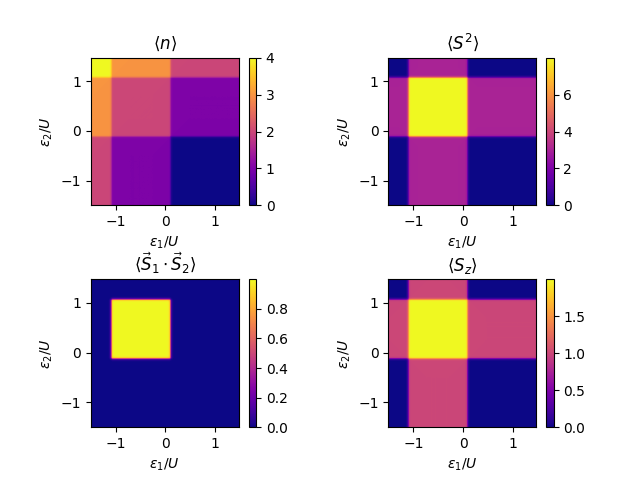
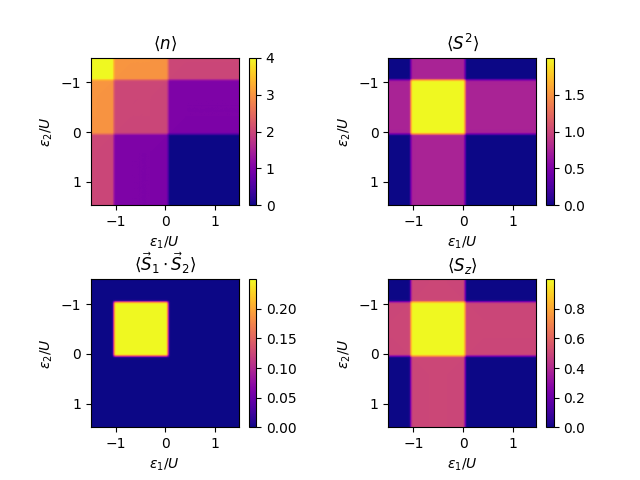
commited

diff --git a/Wizualizacja.py b/Wizualizacja.py
@@ -18,6 +18,7 @@ skw=Ham.squared_s()
 s1s2=Ham.conjunction()
 sz=Ham.spin_z()
 
+
 #rezerwacja pamięci dla macierzy wizualizowanych
 ans_n=np.zeros((len(eps1),len(eps2)))
 ans_skw=ans_n.copy()
@@ -30,10 +31,11 @@ for ep1 in range(len(eps1)):
         H = Ham.generate_H(eps1[ep1],eps2[ep2],U,t,B,J)
         rho = scipy.linalg.expm(-H/Tem)
         rho = rho/np.trace(rho)
-        ans_n[ep1,ep2] = np.trace(np.dot(n,rho))
-        ans_skw[ep1,ep2] = np.trace(np.dot(skw,rho))
-        ans_s1s2[ep1,ep2] = np.trace(np.dot(s1s2,rho))
-        ans_sz[ep1,ep2] = np.trace(np.dot(sz,rho))
+        ans_n[ep1,ep2] = np.trace(np.dot(rho,n))
+        ans_skw[ep1,ep2] = np.trace(np.dot(rho,skw))
+        ans_s1s2[ep1,ep2] = np.trace(np.dot(rho,s1s2))
+        ans_sz[ep1,ep2] = np.trace(np.dot(rho,sz))
+
 
 fig,ax=plt.subplots(2,2)
 fig.subplots_adjust(hspace=0.5, wspace=0.5)
@@ -42,7 +44,7 @@ Ans_title=[[r'$\langle n\rangle$',r'$\langle S^{2}\rangle$'],[r'$\langle \vec{S}
 
 for i in range(2):
     for j in range(2):
-        img=ax[i,j].imshow(Ans[i][j],extent=(eps1[0],eps1[-1],eps2[0],eps2[-1]),cmap='plasma')
+        img=ax[i,j].imshow(Ans[i][j],extent=(eps1[0],eps1[-1],eps2[-1],eps2[0]),cmap='plasma')
         ax[i,j].set_title(Ans_title[i][j])
         ax[i,j].set_xlabel(r'$\varepsilon_{1}/U$')
         ax[i,j].set_ylabel(r'$\varepsilon_{2}/U$')

diff --git a/funkcje.py b/funkcje.py
@@ -17,6 +17,9 @@ class operators:
     @staticmethod
     def anti_com(A,B):
         return np.dot(A,B)+np.dot(B,A)
+    @staticmethod
+    def com(A,B):
+        return np.dot(A,B)-np.dot(B,A)
 
 class Hamiltonian:
     def __init__(self,N):
@@ -24,9 +27,9 @@ class Hamiltonian:
         self.cup=[self.c[item] for item in range(0,len(self.c)) if item%2==0]
         self.cdw=[self.c[item] for item in range(0,len(self.c)) if item%2!=0]
         self.sc=[{
-            'x' : np.dot(self.cup[i]['cr'],self.cdw[i]['an'])+np.dot(self.cdw[i]['cr'],self.cup[i]['an']),
-            'y' : -1j*(np.dot(self.cup[i]['cr'],self.cdw[i]['an'])-np.dot(self.cdw[i]['cr'],self.cup[i]['an'])),
-            'z' : np.dot(self.cup[i]['cr'],self.cup[i]['an'])-np.dot(self.cdw[i]['cr'],self.cdw[i]['an'])
+            'x' : (np.dot(self.cup[i]['cr'],self.cdw[i]['an'])+np.dot(self.cdw[i]['cr'],self.cup[i]['an']))/2,
+            'y' : -1j*(np.dot(self.cup[i]['cr'],self.cdw[i]['an'])-np.dot(self.cdw[i]['cr'],self.cup[i]['an']))/2,
+            'z' : (np.dot(self.cup[i]['cr'],self.cup[i]['an'])-np.dot(self.cdw[i]['cr'],self.cdw[i]['an']))/2
             }
             for i in range(len(self.cup))]
         self.S={
